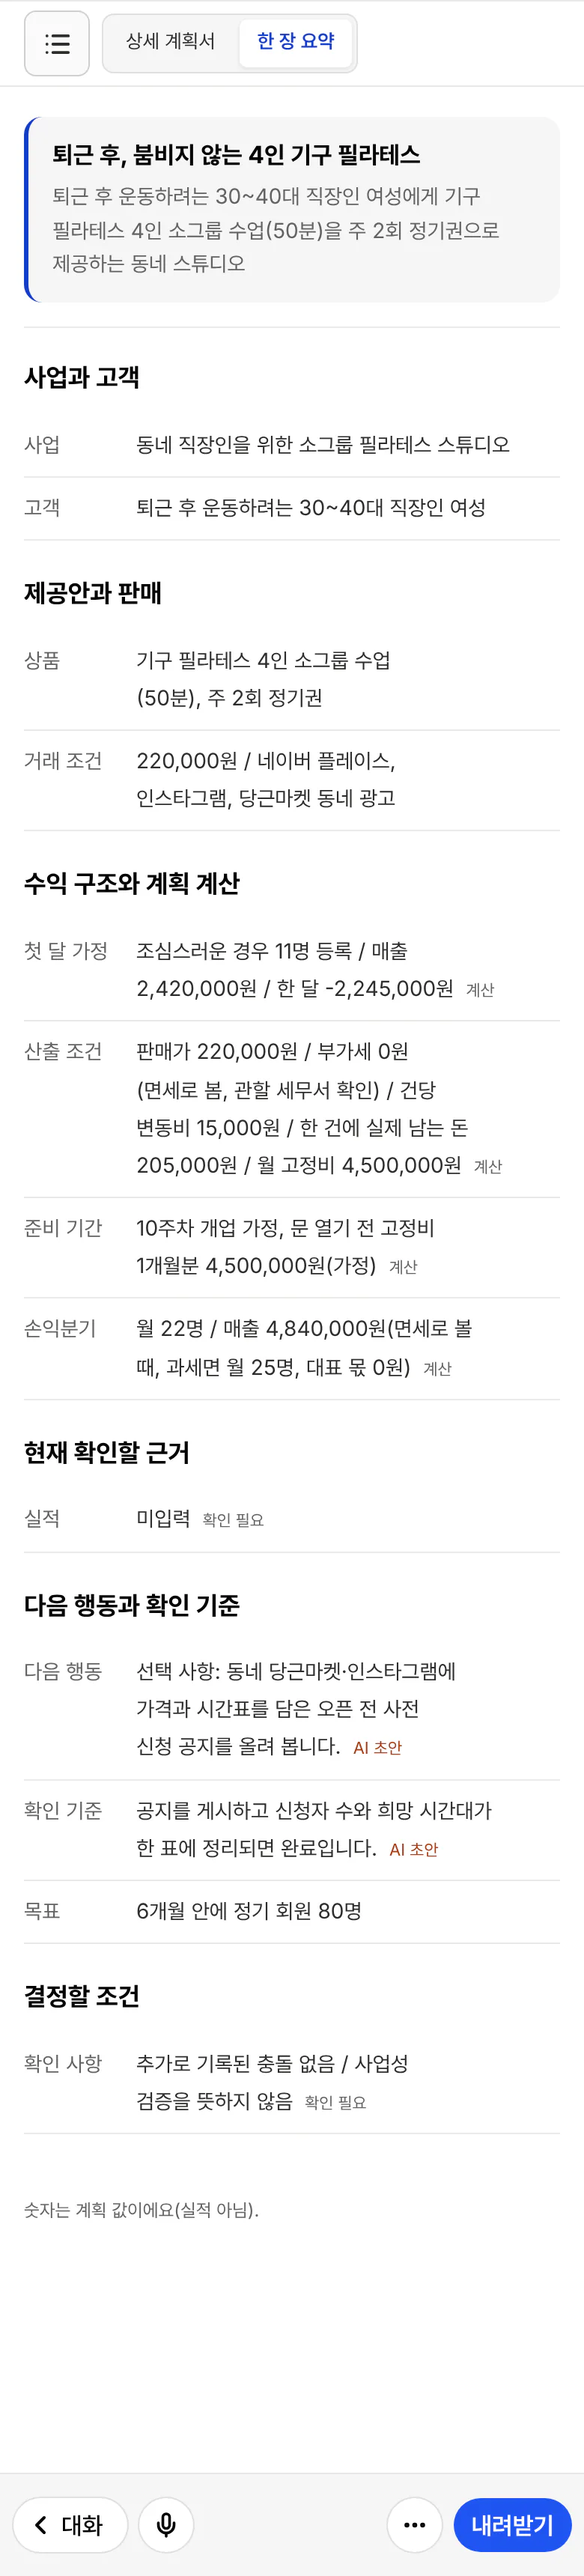
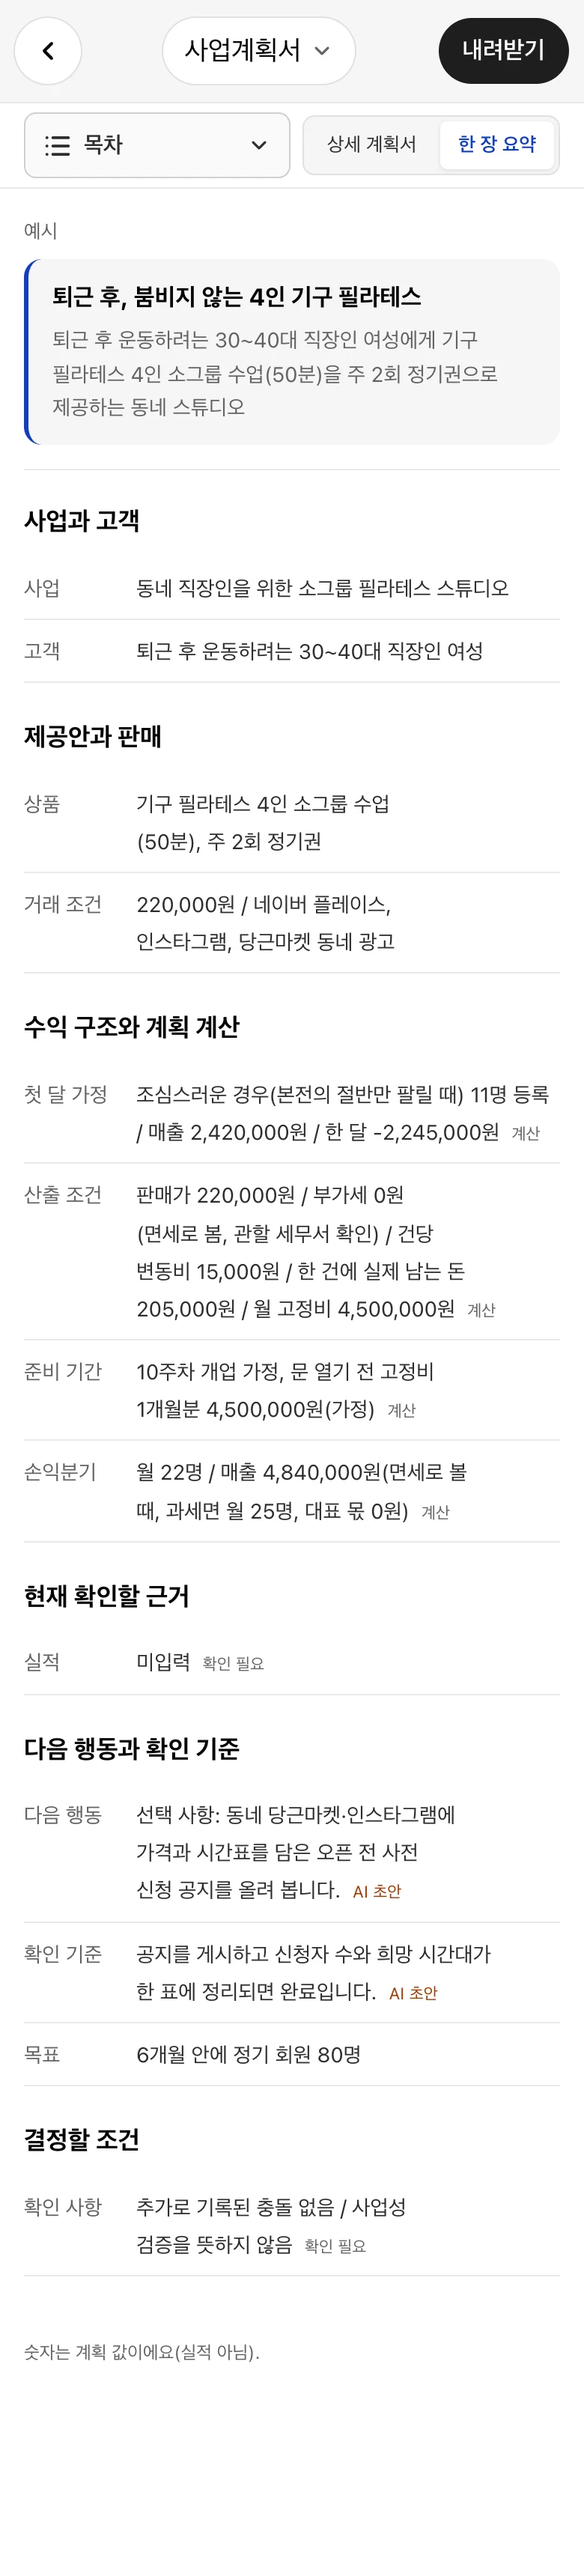
메인 홈: 한 장 요약 예시 그림 3장을 새 문구로 다시 찍기 (#342)
- 첫 달 가정 문구('본전의 절반만 팔릴 때')가 바뀌어 예시 화면(sample_pilates)에서 다시 찍음 — 합성 개발 서버, AI 비용 0원
- 컴퓨터 화면은 1280×1248(왼쪽 '예시 사업이에요'가 첫 화면에 보이게), 초점 좌표·대체 글 갱신

diff --git a/components/home-prompt-hero.tsx b/components/home-prompt-hero.tsx
@@ -45,7 +45,7 @@ const S = "/home-media/showcase";
  * 컴퓨터 화면: 1280×2000 화면을 찍어 1600×2500 으로. 틀 안에는 위 16:10(1280×800)만 보이고 아래로 내려 간다.
  * 휴대폰 화면: 390×(1720~2400) 화면을 찍어 너비 780 으로. 틀 안에는 상태 표시줄 아래 390×790 만 보인다. 컴퓨터 화면을 줄여 넣지 않는다.
  */
-const screen = (name: string, alt: string, focus: ShowcaseFocus): ShowcaseItem => ({ src: `${S}/${name}.webp`, alt, width: 1600, height: 2500, focus });
+const screen = (name: string, alt: string, focus: ShowcaseFocus, height = 2500): ShowcaseItem => ({ src: `${S}/${name}.webp`, alt, width: 1600, height, focus });
 const phone = (name: string, cssHeight: number, alt: string, focus: ShowcaseFocus): ShowcaseItem => ({ src: `${S}/${name}.webp`, alt, width: 780, height: cssHeight * 2, focus });
 /** 보이는 칸의 높이 ÷ 너비 — 컴퓨터 화면 16:10, 휴대폰 화면 390×790 */
 const VIEW_RATIO: Record<ShowcaseSlot, number> = { screen: 10 / 16, phone: 790 / 390 };
@@ -54,6 +54,7 @@ const VIEW_RATIO: Record<ShowcaseSlot, number> = { screen: 10 / 16, phone: 790 /
  * 진열 띠 — 실제 AI로 만든 예시 사업('퇴근필라', 동네 직장인을 위한 4인 소그룹 기구 필라테스 · lib/plan-builder/samples/pilates.ts)의 실제 화면만 쓴다.
  * lovable 구조 7단계(2026-11-01)에 새 작업실 화면(라이트)으로 다시 찍음 — 합성 개발 서버(scripts/preview/dev.sh), AI 비용 0원.
  * 대화로 답한 주 2회 정기권 월 220,000원·회원 1명당 변동비 15,000원·월 고정비 450만 원·예산 4,000만 원으로 만든 계획서·한 장 요약·홈페이지·개업 준비 그대로다.
+ * 한 장 요약 두 장은 2026-11-13에 예시 화면(sample_pilates)에서 다시 찍었다 — 첫 달 가정 문구가 바뀌어서. 컴퓨터 화면은 1280×1248(왼쪽 '예시 사업이에요'가 첫 화면에 보이게).
  * 탭마다 컴퓨터 화면과 '같은 탭'의 휴대폰 화면(390 너비로 따로 찍은 것)을 함께 보여 준다.
  * focus 는 찍을 때 강조할 요소의 실제 위치를 재서 넣었다(그림 높이·너비에 대한 %).
  * note 는 강조할 곳에 띄우는 작은 이름표(14자 안) — 그림 대체 글에도 같은 내용이 들어 있어 낭독기에는 읽히지 않게 둔다.
@@ -71,8 +72,8 @@ const SHOWCASE: Array<{ label: string; note: string } & Record<ShowcaseSlot, Sho
   {
     label: "한 장 요약",
     note: "첫 달·본전 계산",
-    screen: screen("pilates-summary-tall", `${EXAMPLE}의 한 장 요약 — 사업과 고객, 제공안과 판매(4인 소그룹 주 2회 정기권 220,000원), 수익 구조와 계획 계산(첫 달 조심스러운 경우 11명 등록 / 한 달 -2,245,000원, 손익분기 월 22명 / 매출 4,840,000원), 다음 행동과 확인 기준`, { top: 18.6, bottom: 31, x: 67 }),
-    phone: phone("pilates-summary-tall-m", 1720, `${EXAMPLE}의 한 장 요약을 휴대폰으로 본 화면 — '퇴근 후, 붐비지 않는 4인 기구 필라테스', 첫 달 가정(조심스러운 경우 11명 등록 / 한 달 -2,245,000원), 손익분기 월 22명 / 매출 4,840,000원, 다음 행동과 확인 기준`, { top: 33.7, bottom: 55.3 }),
+    screen: screen("pilates-summary-tall", `${EXAMPLE}의 한 장 요약 — 사업과 고객, 제공안과 판매(4인 소그룹 주 2회 정기권 220,000원), 수익 구조와 계획 계산(첫 달 조심스러운 경우(본전의 절반만 팔릴 때) 11명 등록 / 한 달 -2,245,000원, 손익분기 월 22명 / 매출 4,840,000원), 다음 행동과 확인 기준`, { top: 35.9, bottom: 51.3, x: 67 }, 1560),
+    phone: phone("pilates-summary-tall-m", 1720, `${EXAMPLE}의 한 장 요약을 휴대폰으로 본 화면 — '퇴근 후, 붐비지 않는 4인 기구 필라테스', 첫 달 가정(조심스러운 경우(본전의 절반만 팔릴 때) 11명 등록 / 한 달 -2,245,000원), 손익분기 월 22명 / 매출 4,840,000원, 다음 행동과 확인 기준`, { top: 38.6, bottom: 59.3 }),
   },
   {
     label: "홈페이지",
